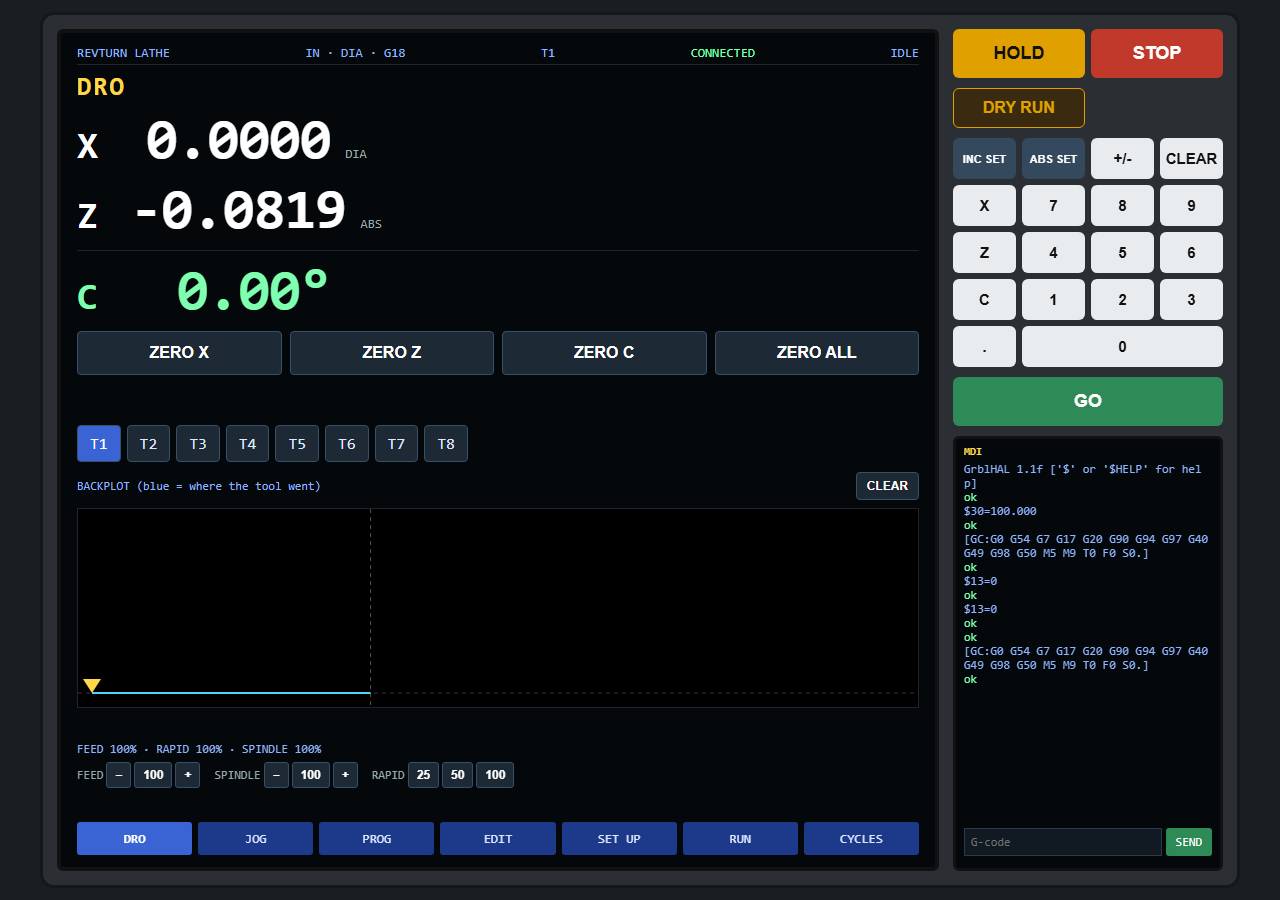
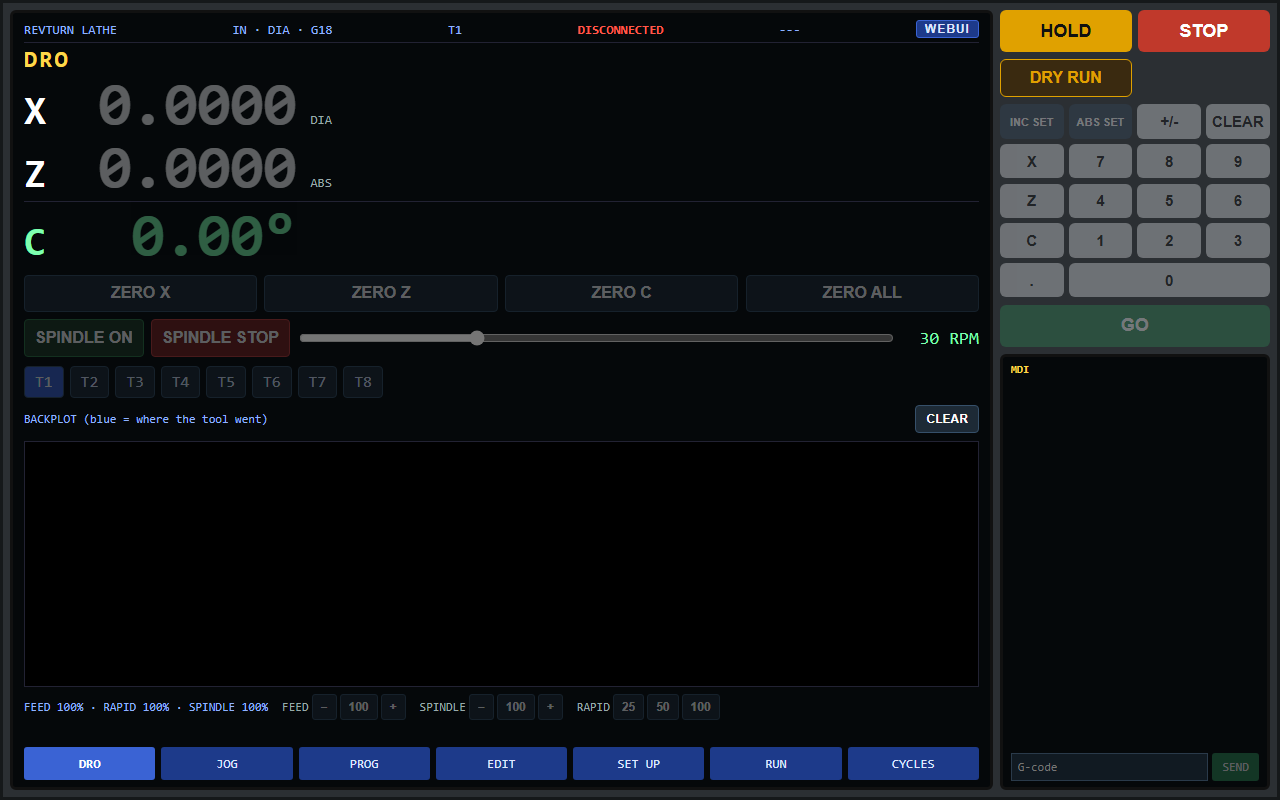
Screen: compact fit-to-window layout and a WEBUI button

Changed region(s): [[0.0, 0.0, 1.0, 1.0]]

diff --git a/README.md b/README.md
@@ -89,7 +89,7 @@ steps/deg. Above that, listen for stalls.
 | WebUI server | `main/webui/server.c` | Reports the STA IP, serves the embedded `lathe.html.gz`, broadcasts the controlling client. |
 | Machine | `main/my_machine.h`, `main/boards/my_machine_map.h`, `platformio.ini`, `main/CMakeLists.txt` | Lathe pin map, PWM spindle 1, WebUI v3, LittleFS, embedded screen. |
 
-The screen itself (plain JS, 237 tests) lives in a separate repo; its built, gzipped page is
+The screen itself (plain JS, 238 tests) lives in a separate repo; its built, gzipped page is
 `main/embedded/lathe.html.gz`.
 
 ## Credits and licenses
